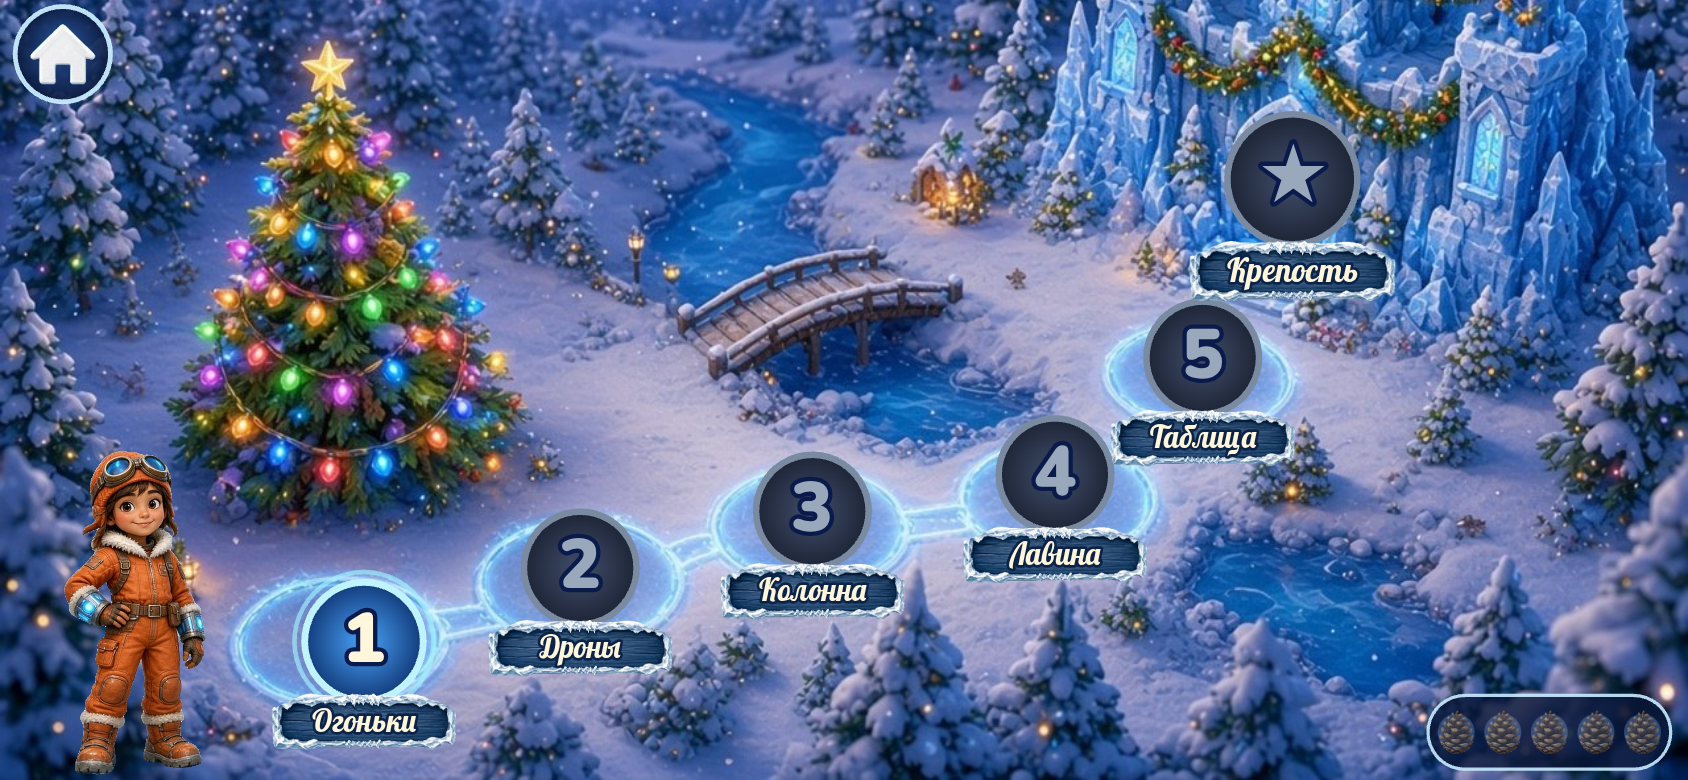
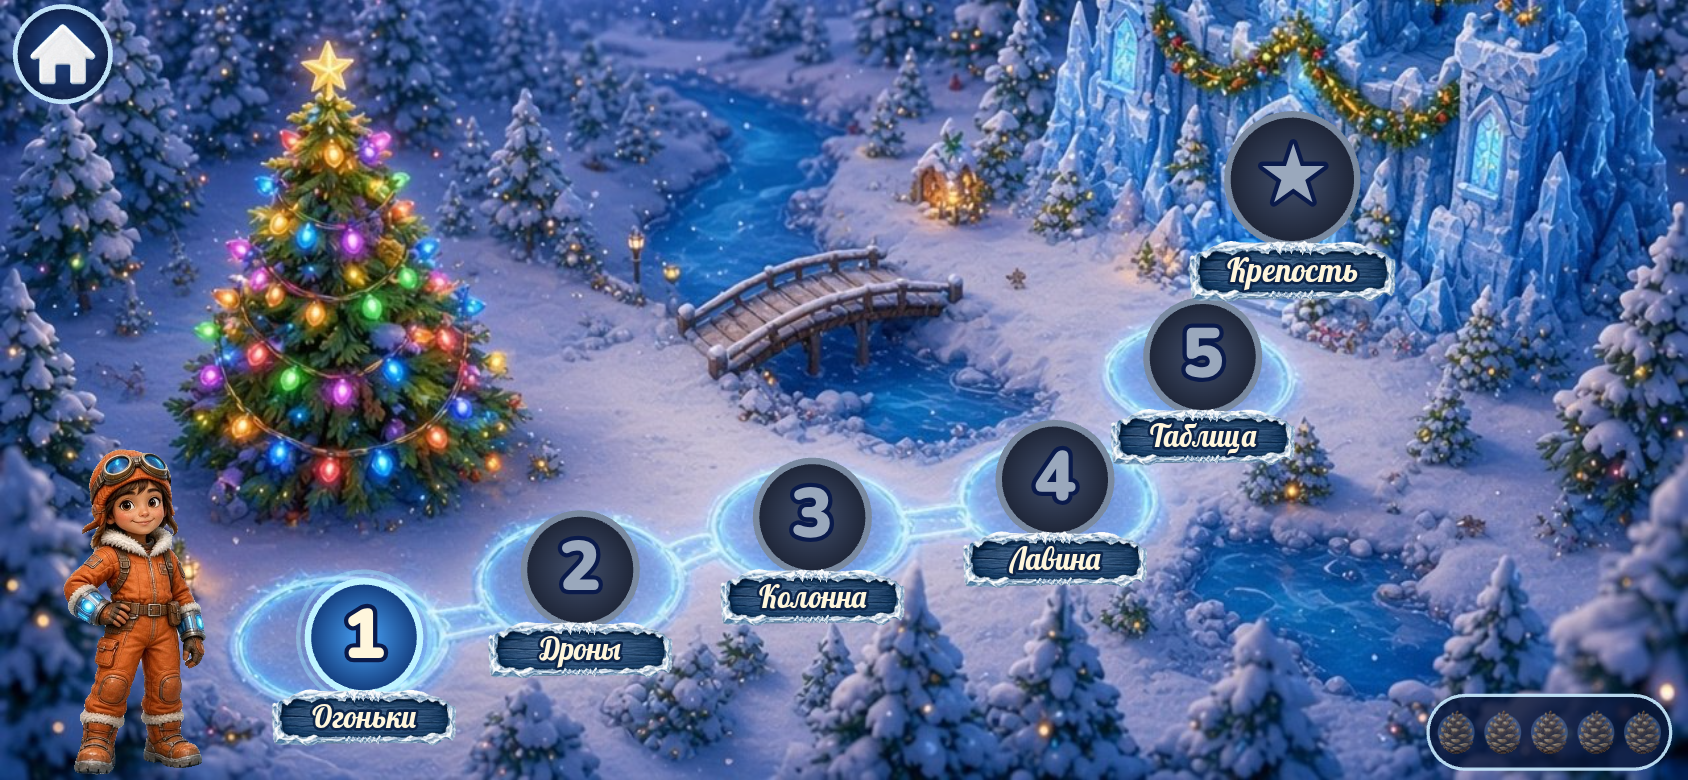
PROGRESS: голоса

Changed region(s): [[0.4005, 0.5231, 0.7701, 0.8], [0.154, 0.6462, 0.4005, 0.9846], [0.0308, 0.5538, 0.1232, 0.8308]]

diff --git a/PROGRESS.md b/PROGRESS.md
@@ -18,7 +18,7 @@
 - [x] L1 гирлянда-узоры, L2 лестница +1/+2, L3 пропавшее звено/самозванец, L4 лавина (обратный счёт), L5 таблица-крепость
 - [x] Финал-босс (3 фазы), добрый Путаник, медаль; секреты: 5 шишек→бонус «Снежная битва», северное сияние, луна
 - [x] Музыка/SFX, вибрация
-- [ ] Реплики lines.json → голоса + ASR
+- [x] Реплики lines.json → голоса + ASR (101 реплика, 9 перегенерированы; ударения ASR не проверяет)
 - [ ] Тесты: test_touch (ошибка+исправление на каждом шаге, 3 размера), audit, perf (fps, draw calls)
 - [ ] Публикация, ?v=, проверка живого URL
 
